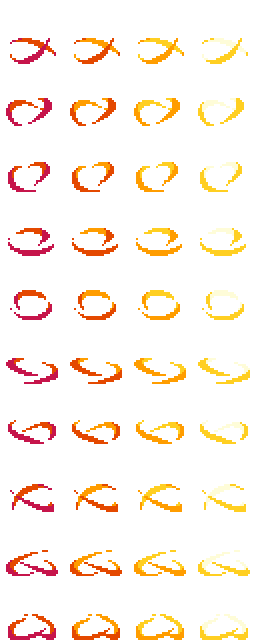
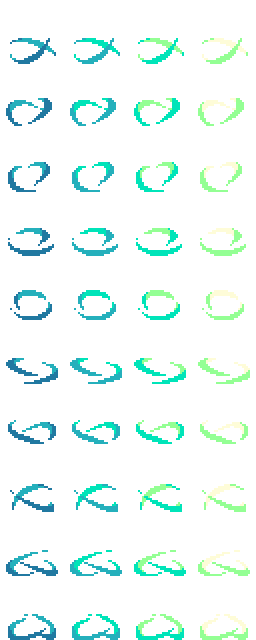
add TextureUpdater, which updates nani's skin based on a supplied palette.

diff --git a/src/graphics/TextureUpdater.cpp b/src/graphics/TextureUpdater.cpp
@@ -1,0 +1,106 @@
+#include "TextureUpdater.hpp"
+
+#include <SFML/Graphics.hpp>
+#include "../setup/ServiceLocator.hpp"
+
+namespace flfx {
+
+void TextureUpdater::load_pixel_map(sf::Texture& map_texture) {
+	map.clear();
+	map_colors.clear();
+	auto map_data = map_texture.copyToImage();
+	auto map_image_data = map_data.getPixelsPtr();
+	int width = map_data.getSize().x;
+	int height = map_data.getSize().y;
+	int total_array_size = width * height * 4;
+	for (int i = 0; i < total_array_size; ++i) {
+		sf::Color current_pixel{};
+		if (i % 4 == 0) {
+			uint8_t r = map_image_data[i];
+			uint8_t g = map_image_data[i + 1];
+			uint8_t b = map_image_data[i + 2];
+			uint8_t a = map_image_data[i + 3];
+			current_pixel = sf::Color{r, g, b, a};
+			map_colors.push_back(current_pixel);
+		}
+		map.push_back(i);
+	}
+}
+void TextureUpdater::load_palette(sf::Texture& palette_texture) {
+	palette.clear();
+	palette_colors.clear();
+	auto palette_data = palette_texture.copyToImage();
+	auto palette_image_data = palette_data.getPixelsPtr();
+	int width = palette_data.getSize().x;
+	int height = palette_data.getSize().y;
+	int total_array_size = width * height * 4;
+	for (int i = 0; i < total_array_size; ++i) {
+		sf::Color current_pixel{};
+		if (i % 4 == 0) {
+			uint8_t r = palette_image_data[i];
+			uint8_t g = palette_image_data[i + 1];
+			uint8_t b = palette_image_data[i + 2];
+			uint8_t a = palette_image_data[i + 3];
+			current_pixel = sf::Color{r, g, b, a};
+			palette_colors.push_back(current_pixel);
+		}
+		palette.push_back(i);
+	}
+}
+void TextureUpdater::update_texture(sf::Texture& texture) {
+
+	// set image data with current texture
+	auto texture_data = texture.copyToImage();
+	auto image_data = texture_data.getPixelsPtr();
+	int width = texture_data.getSize().x;
+	int height = texture_data.getSize().y;
+	int total_array_size = width * height * 4;
+
+	//iterate over passed texture
+	for (int i = 0; i < total_array_size; ++i) {
+
+		// fill image
+		sf::Uint8 index = i;
+
+		sf::Color current_pixel{};
+		int to_index{};
+
+		//next pixel
+		if (i % 4 == 0) {
+			current_pixel = {(sf::Uint8)(image_data[i]), (sf::Uint8)(image_data[i + 1]), (sf::Uint8)(image_data[i + 2]), (sf::Uint8)(image_data[i + 3])};
+
+			// find this pixels home index
+			for (int j = 0; j < map_colors.size(); ++j) {
+				// found base pixel to map, i is where we need to check in the new palette
+					sf::Color map_check = map_colors.at(j);
+					if (map_check == current_pixel) { to_index = j; }
+			}
+			// found, it's to_index
+			// get the color at to_index from our new palette
+			sf::Color to_color = palette_colors.at(to_index);
+			image.push_back(to_color.r);
+			image.push_back(to_color.g);
+			image.push_back(to_color.b);
+			image.push_back(to_color.a);
+		}
+	}
+
+	// overwrite the texture
+	texture.update(image.data());
+	image.clear();
+}
+
+void flfx::TextureUpdater::debug_render(sf::RenderWindow& win, sf::Vector2<float>& campos) {
+	debug.setSize({32.f, 32.f});
+	if (!map_colors.empty()) {
+		debug.setFillColor(map_colors.at(0));
+		debug.setPosition(0, 0);
+		win.draw(debug);
+	}
+	if (!palette_colors.empty()) {
+		debug.setFillColor(palette_colors.at(0));
+		debug.setPosition(32.f, 0);
+		win.draw(debug);
+	}
+}
+} // namespace flfx

diff --git a/src/entities/player/Player.cpp b/src/entities/player/Player.cpp
@@ -40,8 +40,12 @@ void Player::init() {
 	sprite_dimensions = {48.f, 48.f};
 
 	// sprites
-	assign_texture(svc::assetLocator.get().t_nani_unarmed);
+	//assign_texture(svc::assetLocator.get().t_nani_unarmed);
 	sprite.setTexture(svc::assetLocator.get().t_nani_unarmed);
+
+	texture_updater.load_pixel_map(svc::assetLocator.get().t_palette_nani);
+	texture_updater.load_palette(svc::assetLocator.get().t_palette_nanidiv);
+
 }
 
 void Player::update() {
@@ -113,14 +117,6 @@ void Player::update() {
 
 	// antennae!
 	update_antennae();
-
-	if (!arsenal.loadout.empty()) {
-		assign_texture(svc::assetLocator.get().t_nani);
-		sprite.setTexture(svc::assetLocator.get().t_nani);
-	} else {
-		assign_texture(svc::assetLocator.get().t_nani_unarmed);
-		sprite.setTexture(svc::assetLocator.get().t_nani_unarmed);
-	}
 }
 
 void Player::render(sf::RenderWindow& win, sf::Vector2<float>& campos) {
@@ -169,6 +165,10 @@ void Player::render(sf::RenderWindow& win, sf::Vector2<float>& campos) {
 		equipped_weapon().sp_gun.setTexture(lookup::weapon_texture.at(equipped_weapon().type));
 		equipped_weapon().render(win, campos);
 	}
+
+	//texture updater debug
+	texture_updater.debug_render(win, campos);
+
 }
 
 void Player::assign_texture(sf::Texture& tex) { sprite.setTexture(tex); }
@@ -203,7 +203,7 @@ void Player::update_animation() {
 }
 
 void Player::update_sprite() {
-	if (arsenal.loadout.empty()) { sprite.setTexture(svc::assetLocator.get().t_nani_unarmed); }
+	//if (arsenal.loadout.empty()) { sprite.setTexture(svc::assetLocator.get().t_nani_unarmed); }
 }
 
 void Player::update_transponder() {

diff --git a/main.cpp b/main.cpp
@@ -181,6 +181,19 @@ static void show_overlay() {
 				}
 				if (ImGui::BeginTabItem("Player")) {
 					if (ImGui::BeginTabBar("PlayerTabBar", tab_bar_flags)) {
+						if (ImGui::BeginTabItem("Texture")) {
+							if(ImGui::Button("Default")) {
+								svc::playerLocator.get().texture_updater.load_pixel_map(svc::assetLocator.get().t_palette_nanidiv);
+								svc::playerLocator.get().texture_updater.load_palette(svc::assetLocator.get().t_palette_nani);
+								svc::playerLocator.get().texture_updater.update_texture(svc::assetLocator.get().t_nani_unarmed);
+							}
+							if (ImGui::Button("Divine")) {
+								svc::playerLocator.get().texture_updater.load_pixel_map(svc::assetLocator.get().t_palette_nani);
+								svc::playerLocator.get().texture_updater.load_palette(svc::assetLocator.get().t_palette_nanidiv);
+								svc::playerLocator.get().texture_updater.update_texture(svc::assetLocator.get().t_nani_unarmed);
+							}
+							ImGui::EndTabItem();
+						}
 						if (ImGui::BeginTabItem("Physics and Collision")) {
 							ImGui::Text("Player Pos: (%.4f,%.4f)", svc::playerLocator.get().collider.physics.position.x, svc::playerLocator.get().collider.physics.position.y);
 							ImGui::Text("Player Vel: (%.4f,%.4f)", svc::playerLocator.get().collider.physics.velocity.x, svc::playerLocator.get().collider.physics.velocity.y);

diff --git a/src/entities/world/SavePoint.cpp b/src/entities/world/SavePoint.cpp
@@ -35,13 +35,8 @@ void SavePoint::update() {
 		svc::soundboardLocator.get().proximities.save = abs(svc::playerLocator.get().collider.bounding_box.position.x - bounding_box.position.x);
 
 		if (svc::playerLocator.get().collider.bounding_box.SAT(bounding_box)) {
-			if (!svc::playerLocator.get().controller.moving()) {
-				intensity = 3;
-				if (animation.keyframe_over()) { animation.params.framerate = 16; }
-			} else {
-				intensity = 2;
-				if (animation.keyframe_over()) { animation.params.framerate = 20; }
-			}
+			intensity = 3;
+			if (animation.keyframe_over()) { animation.params.framerate = 16; }
 			if (svc::playerLocator.get().controller.inspecting()) {
 				if (can_activate) {
 					activated = true;
@@ -51,13 +46,13 @@ void SavePoint::update() {
 				}
 			}
 		} else {
-			intensity = 1;
-			if (animation.keyframe_over()) { animation.params.framerate = 24; }
+			intensity = 2;
+			if (animation.keyframe_over()) { animation.params.framerate = 20; }
 			can_activate = true;
 		}
 	} else {
-		intensity = 0;
-		if (animation.keyframe_over()) { animation.params.framerate = 30; }
+		intensity = 1;
+		if (animation.keyframe_over()) { animation.params.framerate = 24; }
 	}
 }
 

diff --git a/src/setup/AssetManager.hpp b/src/setup/AssetManager.hpp
@@ -29,6 +29,10 @@ class AssetManager {
 		t_nani_dark.loadFromFile(finder.resource_path + "/image/character/nani_dark.png");
 		t_nani_red.loadFromFile(finder.resource_path + "/image/character/nani_red.png");
 
+		t_palette_nani.loadFromFile(finder.resource_path + "/image/character/nani_palette_default.png");
+		t_palette_nanidiv.loadFromFile(finder.resource_path + "/image/character/nani_palette_divine.png");
+		t_palette_naninight.loadFromFile(finder.resource_path + "/image/character/nani_palette_night.png");
+
 		t_bryn_test.loadFromFile(finder.resource_path + "/image/portrait/bryn_test.png");
 		t_ui_test.loadFromFile(finder.resource_path + "/image/gui/ui_test.png");
 
@@ -155,6 +159,11 @@ class AssetManager {
 	sf::Texture t_nani_unarmed{};
 	sf::Texture t_nani_dark{};
 	sf::Texture t_nani_red{};
+
+	//player palettes
+	sf::Texture t_palette_nani{};
+	sf::Texture t_palette_nanidiv{};
+	sf::Texture t_palette_naninight{};
 
 	// portraits!
 	sf::Texture t_bryn_test{};

diff --git a/src/graphics/TextureUpdater.hpp b/src/graphics/TextureUpdater.hpp
@@ -1,0 +1,28 @@
+
+#pragma once
+
+#include <SFML/Graphics.hpp>
+#include <vector>
+
+namespace flfx {
+
+class TextureUpdater {
+
+  public:
+	void load_pixel_map(sf::Texture& map);
+	void load_palette(sf::Texture& palette_texture);
+	void update_texture(sf::Texture& texture);
+
+	void debug_render(sf::RenderWindow& win, sf::Vector2<float>& campos);
+
+  private:
+	std::vector<sf::Uint8> image{};
+	std::vector<sf::Uint8> palette{};
+	std::vector<sf::Uint8> map{};
+
+	std::vector<sf::Color> palette_colors{};
+	std::vector<sf::Color> map_colors{};
+
+	sf::RectangleShape debug{};
+};
+} // namespace flfx

diff --git a/src/entities/player/Player.hpp b/src/entities/player/Player.hpp
@@ -13,6 +13,7 @@
 #include "PlayerController.hpp"
 #include "PlayerAnimation.hpp"
 #include "Transponder.hpp"
+#include "../../graphics/TextureUpdater.hpp"
 
 namespace player {
 
@@ -162,6 +163,9 @@ class Player {
 	// sprites
 	sf::Sprite sprite{};
 	flfx::SpriteHistory sprite_history{};
+
+	//texture updater
+	flfx::TextureUpdater texture_updater{};
 
 	bool grav = true;
 
